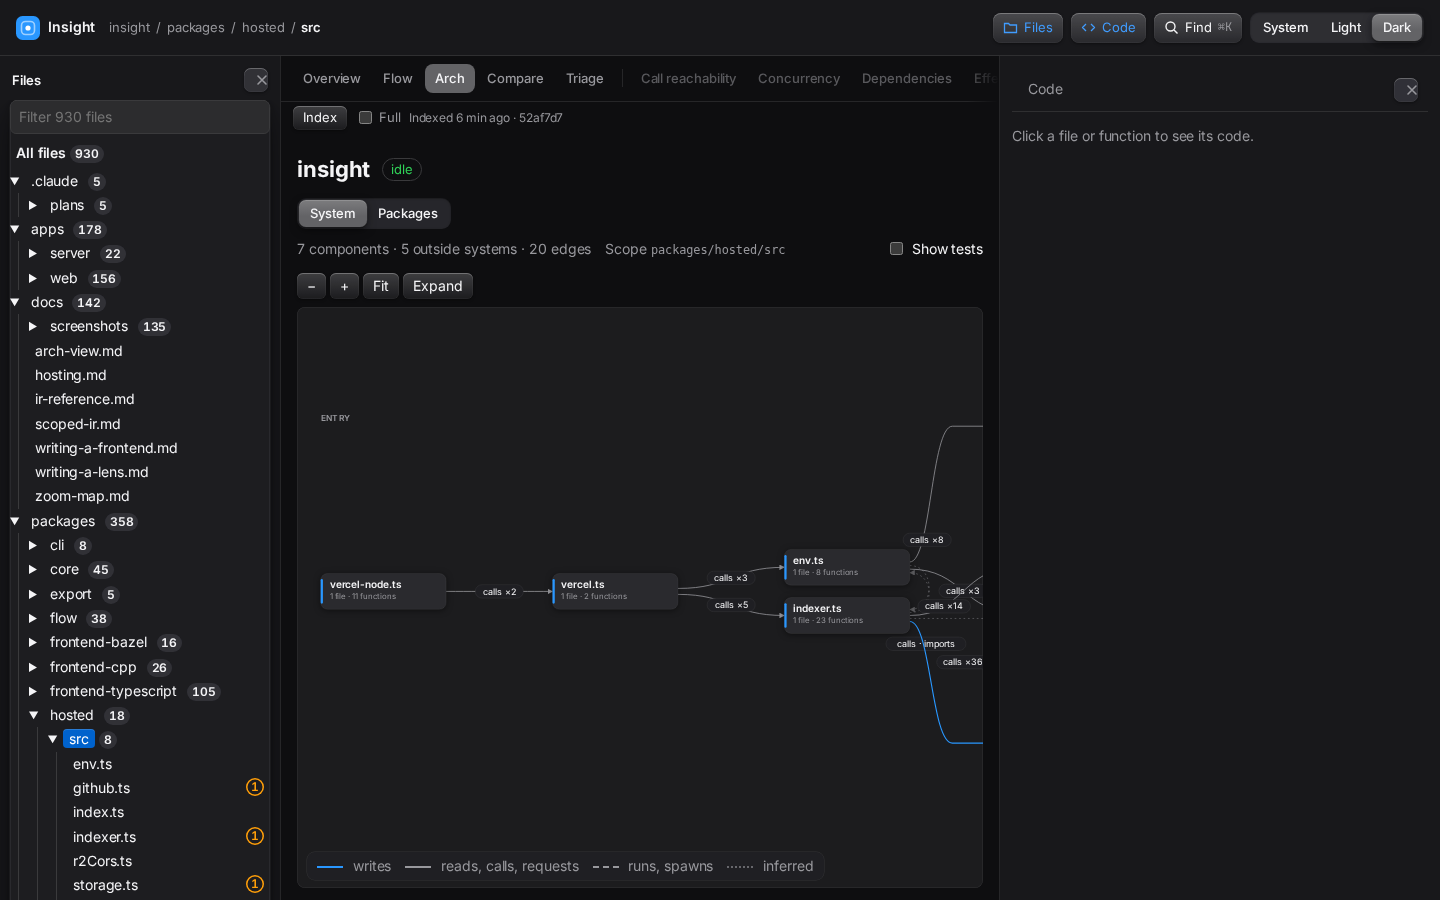
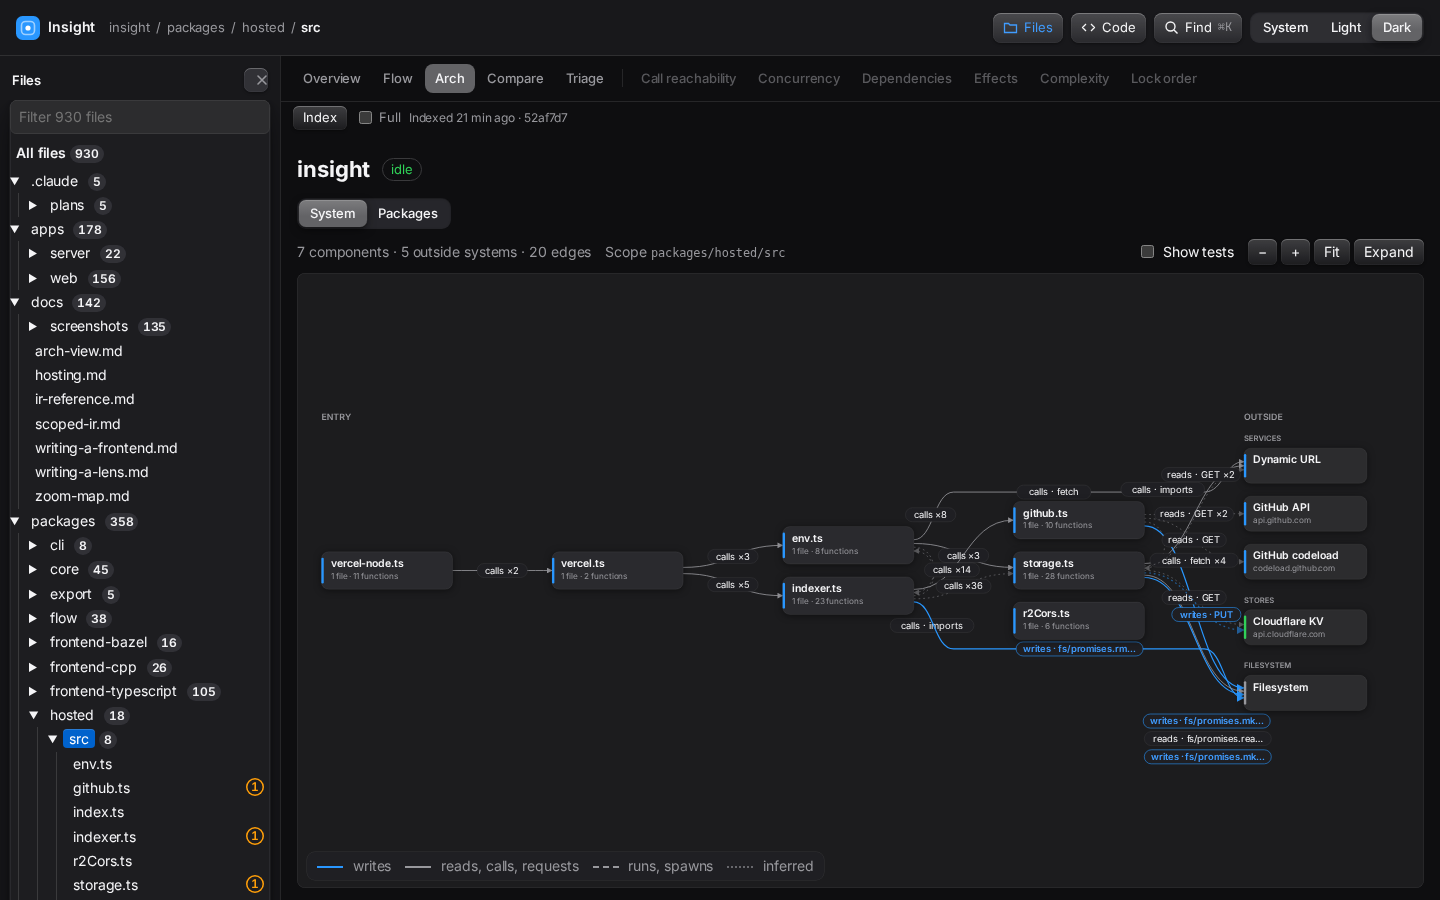
web: System view fits at normal width, lanes stay inside the layout
The right Code pane starts collapsed while System is shown and no code is open (it returns when code is opened). Lanes hug
the cards of the columns they cross, 4 px apart, and the canvas includes them. A last column of unconnected components is
folded into the previous one, columns are closer, a fade and a pan hint show when content is off-screen, pills avoid group
headers, and column headers no longer break letters apart.

Claude-Session: https://claude.ai/code/session_011RUAPMJBr2hVPtYgq4v44b

diff --git a/apps/web/src/arch/system-layout.ts b/apps/web/src/arch/system-layout.ts
@@ -7,7 +7,7 @@ import type { SystemComponent, SystemEdge, SystemExternal, SystemModel, SystemRo
 export const SYS_CARD_W = 224;
 export const SYS_EXT_W = 210;
 /** Space between two columns, where the curves run and the verb pills sit. */
-export const SYS_GAP_X = 190;
+export const SYS_GAP_X = 170;
 export const SYS_GAP_Y = 22;
 export const SYS_PAD = 28;
 export const SYS_HEADER_H = 34;
@@ -20,8 +20,8 @@ export const SYS_PILL_H = 24;
 export const SYS_MAX_CHIPS = 4;
 const PORT_INSET = 16;
 /** The first lane sits this far above (below) the cards; the next ones are a step further out. */
-const LANE_FIRST = 20;
-const LANE_STEP = 12;
+const LANE_FIRST = 16;
+const LANE_STEP = 4;
 
 export const CATEGORY_ORDER: ReadonlyArray<SystemExternal["category"]> = ["service", "store", "api", "process", "filesystem", "config", "worker"];
 export const CATEGORY_TITLES: Record<SystemExternal["category"], string> = {
@@ -173,6 +173,12 @@ export function layoutSystem(sys: SystemModel): SysLayout {
   const placed = new Set(stages.flat());
   const stray = sys.components.filter((c) => !placed.has(c.id)).map((c) => c.id);
   if (stray.length > 0) stages.push(stray);
+  // A last column of components nothing connects to is folded into the column before it, so it does not cost a column of width.
+  const linked = new Set(sys.edges.filter((e) => e.from !== e.to).flatMap((e) => [e.from, e.to]));
+  while (stages.length > 1 && (stages[stages.length - 1] as string[]).every((id) => !linked.has(id))) {
+    const last = stages.pop() as string[];
+    (stages[stages.length - 1] as string[]).push(...last);
+  }
   const stacks: Array<{ column: number; items: SysBox[]; headers: Array<{ category: SystemExternal["category"]; before: number }> }> = [];
   stages.forEach((stage, i) => {
     columns.push({ index: i, title: i === 0 ? "Entry" : "", x, w: SYS_CARD_W });
@@ -319,13 +325,26 @@ export function layoutSystem(sys: SystemModel): SysLayout {
     else geos[i] = { segs };
   });
   pending.sort((p, q) => p.span - q.span || p.i - q.i);
+  // A lane runs just above the top card (below the bottom card) of the columns it crosses, so it stays inside the layout's
+  // bounds. Parallel lanes sit LANE_STEP apart.
+  const colBoxes = new Map<number, SysBox[]>();
+  for (const bx of boxes) colBoxes.set(bx.column, [...(colBoxes.get(bx.column) ?? []), bx]);
   let nTop = 0;
   let nBot = 0;
+  let minLane = top;
+  let maxLane = bottom;
   for (const { i } of pending) {
     const { x1, y1, x2, y2 } = ends[i] as (typeof ends)[number];
+    const { a, b } = sides[i] as (typeof sides)[number];
     const dir = x2 > x1 ? 1 : -1;
-    const lane: "top" | "bottom" = (y1 + y2) / 2 < (top + bottom) / 2 ? "top" : "bottom";
-    const ly = lane === "top" ? top - LANE_FIRST - nTop++ * LANE_STEP : bottom + LANE_FIRST + nBot++ * LANE_STEP;
+    const crossed: SysBox[] = [];
+    for (let c = Math.min(a.column, b.column) + 1; c < Math.max(a.column, b.column); c++) crossed.push(...(colBoxes.get(c) ?? []));
+    const spanTop = crossed.length > 0 ? Math.min(...crossed.map((q) => q.y)) : top;
+    const spanBottom = crossed.length > 0 ? Math.max(...crossed.map((q) => q.y + q.h)) : bottom;
+    const lane: "top" | "bottom" = (y1 + y2) / 2 < (spanTop + spanBottom) / 2 ? "top" : "bottom";
+    const ly = lane === "top" ? spanTop - LANE_FIRST - nTop++ * LANE_STEP : spanBottom + LANE_FIRST + nBot++ * LANE_STEP;
+    minLane = Math.min(minLane, ly);
+    maxLane = Math.max(maxLane, ly);
     const xa = x1 + dir * SYS_GAP_X * 0.4;
     const xb = x2 - dir * SYS_GAP_X * 0.4;
     const k = SYS_GAP_X * 0.2;
@@ -339,8 +358,8 @@ export function layoutSystem(sys: SystemModel): SysLayout {
     };
   }
   // Room for the lanes: everything moves down by what the top lanes need, and the canvas grows for the bottom ones.
-  const dy = nTop > 0 ? Math.max(0, 54 - (top - LANE_FIRST - (nTop - 1) * LANE_STEP)) : 0;
-  const height = dy + bottom + (nBot > 0 ? LANE_FIRST + (nBot - 1) * LANE_STEP : 0) + SYS_PAD;
+  const dy = minLane < top ? Math.max(0, 54 - minLane) : 0;
+  const height = dy + maxLane + SYS_PAD;
   if (dy > 0) {
     for (const bx of boxes) bx.y += dy;
     for (const g of groups) g.y += dy;
@@ -350,10 +369,11 @@ export function layoutSystem(sys: SystemModel): SysLayout {
 
   // Pills sit on their curve, slid along it (t 0.3 to 0.7) and then offset off it until they touch no card and no other pill.
   const taken: Array<{ x: number; y: number; w: number; h: number }> = boxes.map((b) => ({ x: b.x - 4, y: b.y - 4, w: b.w + 8, h: b.h + 8 }));
+  for (const g of groups) taken.push({ x: g.x - 2, y: g.y - 16, w: 150, h: 22 });
   const arrows: SysArrow[] = [];
-  const NUDGES = [0, 26, -26, 52, -52, 78, -78, 104, -104, 130, -130, 156, -156, 182, -182, 208, -208];
+  const NUDGES = [0, 26, -26, 52, -52, 78, -78, 104, -104, 130, -130, 156, -156, 182, -182, 208, -208, 234, -234, 260, -260, 312, -312, 364, -364, 416, -416];
   const TS = [0.5, 0.45, 0.55, 0.4, 0.6, 0.35, 0.65, 0.3, 0.7];
-  const WIDE_TS = [0.5, 0.4, 0.6, 0.3, 0.7, 0.2, 0.8, 0.12, 0.88];
+  const WIDE_TS = [0.5, 0.4, 0.6, 0.3, 0.7, 0.2, 0.8, 0.12, 0.88, 0.06, 0.94];
   live.forEach((e, i) => {
     const geo = geos[i] as Geo;
     const samples = polyline(geo.segs);

diff --git a/apps/web/src/components/Workspace.tsx b/apps/web/src/components/Workspace.tsx
@@ -93,6 +93,25 @@ export function Workspace({ id, tab, scope, line, fn, roots = true, base, head, 
       setCodeDrawer(true);
       setFilesOpen(false);
     } else {
+      autoCodeCollapse.current = false;
+      setCodeCollapsed(false);
+    }
+  }, []);
+  // The System view wants the width: while it is shown and no code is open, the code pane starts collapsed. Opening code (a
+  // file:line link) or the Code button brings it back, and leaving System restores it.
+  const autoCodeCollapse = useRef(false);
+  const codeCollapsedNow = useRef(codeCollapsed);
+  codeCollapsedNow.current = codeCollapsed;
+  const targetNow = useRef(target);
+  targetNow.current = target;
+  const onSystemActive = useCallback((on: boolean) => {
+    if (on) {
+      if (!isNarrow() && !codeCollapsedNow.current && targetNow.current === undefined) {
+        autoCodeCollapse.current = true;
+        setCodeCollapsed(true);
+      }
+    } else if (autoCodeCollapse.current) {
+      autoCodeCollapse.current = false;
       setCodeCollapsed(false);
     }
   }, []);
@@ -263,6 +282,7 @@ export function Workspace({ id, tab, scope, line, fn, roots = true, base, head, 
       setCodeDrawer(!codeDrawer);
       setFilesOpen(false);
     } else {
+      autoCodeCollapse.current = false;
       setCodeCollapsed(!codeCollapsed);
     }
   };
@@ -272,7 +292,7 @@ export function Workspace({ id, tab, scope, line, fn, roots = true, base, head, 
       case "overview":
         return <ProjectOverview id={id} />;
       case "arch":
-        return <ArchTab id={id} scope={scope} />;
+        return <ArchTab id={id} scope={scope} onSystemActive={onSystemActive} />;
       case "compare":
         return <ComparePage id={id} base={base} head={head} />;
       case "triage":

diff --git a/apps/web/src/styles.css b/apps/web/src/styles.css
@@ -1049,9 +1049,11 @@ button.add-submit:disabled { background: var(--faint); color: var(--graphite); b
 .sysv-stage:active { cursor: grabbing; }
 .sysv-stage.stale { opacity: 0.6; }
 .sysv-svg { display: block; }
+.sysv-fade { position: absolute; top: 0; right: 0; bottom: 0; width: 56px; pointer-events: none; background: linear-gradient(to right, transparent, var(--sheet)); }
+.sysv-hint { position: absolute; right: 12px; bottom: 8px; padding: 3px 10px; border-radius: 8px; background: var(--chip-solid); box-shadow: 0 0 0 0.5px var(--hair); pointer-events: none; }
 .sysv-empty { position: absolute; inset: 0; display: grid; place-content: center; text-align: center; padding: 24px; gap: 4px; max-width: 460px; margin: 0 auto; }
 .sysv-empty p { margin: 0; }
-.sysv-col, .sysv-group { fill: var(--muted); font: 600 13px var(--font-ui); letter-spacing: 0.04em; text-transform: uppercase; }
+.sysv-col, .sysv-group { fill: var(--muted); font: 600 13px var(--font-ui); letter-spacing: 0; font-kerning: none; text-rendering: geometricPrecision; text-transform: uppercase; }
 .sysv-col { font-size: 15px; }
 .sysv-node { cursor: pointer; outline: none; }
 .sysv-card { fill: var(--card-top); stroke: var(--hair); stroke-width: 1; filter: drop-shadow(0 2px 6px var(--shadow)); }

diff --git a/apps/web/src/components/views/ArchTab.tsx b/apps/web/src/components/views/ArchTab.tsx
@@ -1,4 +1,4 @@
-import { useState } from "react";
+import { useEffect, useState } from "react";
 import { ARCH_MODES, ARCH_MODE_LABELS, readArchMode, writeArchMode, type ArchMode } from "../../arch/mode";
 import { ArchView } from "./ArchView";
 import { SystemView } from "./SystemView";
@@ -20,8 +20,13 @@ export function ArchModeToggle({ mode, onChange }: { mode: ArchMode; onChange: (
  * The Arch tab: System (the explorer scope's components, routes and outside systems) or Packages (the whole project's
  * package graph, unchanged). System is the default, and the reader's choice is kept in localStorage.
  */
-export function ArchTab({ id, scope, initial }: { id: string; scope: string; initial?: ArchMode }) {
+export function ArchTab({ id, scope, initial, onSystemActive }: { id: string; scope: string; initial?: ArchMode; onSystemActive?: (on: boolean) => void }) {
   const [mode, setMode] = useState<ArchMode>(() => initial ?? readArchMode());
+  // The workspace collapses its code pane while System is shown and no code is open.
+  useEffect(() => {
+    onSystemActive?.(mode === "system");
+    return () => onSystemActive?.(false);
+  }, [mode, onSystemActive]);
   const pick = (m: ArchMode) => {
     setMode(m);
     writeArchMode(m);

diff --git a/apps/web/src/components/views/SystemView.tsx b/apps/web/src/components/views/SystemView.tsx
@@ -214,6 +214,11 @@ export function SystemDiagram({ id, sys, tests, onTests, stale = false }: System
   const arrows = layout.arrows;
 
   const empty = layout.boxes.length === 0;
+  // Content past the stage's edge: a fade along the right edge and a hint to pan.
+  const stageW = stage.current?.clientWidth ?? 0;
+  const stageHt = stage.current?.clientHeight ?? 0;
+  const cut = !empty && stageW > 0 && (cam.x + layout.width * cam.k > stageW + 4 || cam.x < -4 || cam.y < -4 || cam.y + layout.height * cam.k > stageHt + 4);
+  const cutRight = cut && cam.x + layout.width * cam.k > stageW + 4;
   return (
     <div className={`sysv${expanded ? " expanded" : ""}`}>
       <div className="sysv-bar">
@@ -367,6 +372,8 @@ export function SystemDiagram({ id, sys, tests, onTests, stale = false }: System
               </g>
             </svg>
           )}
+          {cutRight && <div className="sysv-fade" aria-hidden="true" />}
+          {cut && sel === null && <span className="sysv-hint small muted">drag to pan · Fit</span>}
           {!empty && sel === null && <Legend />}
           {sel !== null && <Panel id={id} sys={sys} layout={layout} sel={sel} onSelect={setSel} onOpen={openScope} onClose={() => setSel(null)} />}
         </div>

diff --git a/apps/web/test/systemLayout.test.tsx b/apps/web/test/systemLayout.test.tsx
@@ -217,6 +217,20 @@ describe.each([
     }
   });
 
+  it("keeps every lane just outside the cards, inside the layout bounds", () => {
+    const cardTop = Math.min(...layout.boxes.map((b) => b.y));
+    const cardBottom = Math.max(...layout.boxes.map((b) => b.y + b.h));
+    const lanes = layout.arrows.filter((a) => a.lane !== undefined);
+    // The first lane is 16 px off the cards and each further one 4 px: no lane strays further than that from the cards.
+    const reach = 16 + 4 * lanes.length + 1;
+    for (const a of lanes) {
+      const ys = a.samples.map((q) => q.y);
+      expect(Math.min(...ys)).toBeGreaterThanOrEqual(Math.max(0, cardTop - reach));
+      expect(Math.max(...ys)).toBeLessThanOrEqual(Math.min(layout.height, cardBottom + reach));
+    }
+    expect(layout.height).toBeLessThanOrEqual(cardBottom + reach + 28 + 54);
+  });
+
   if (name === "dense") {
     it("sends the edges that would cross a card along a lane", () => {
       expect(layout.arrows.some((a) => a.lane !== undefined)).toBe(true);

diff --git a/docs/system-view.md b/docs/system-view.md
@@ -69,6 +69,9 @@ The geometry is `layoutSystem` in `apps/web/src/arch/system-layout.ts`, pure and
   the cards and enters the gap before its target, so no edge goes through a card that is not one of its ends.
 - Verb pills sit on their curve, slid along it (0.3 to 0.7 of its length) and then offset until they touch no card and no
   other pill. Above 30 edges the pills are shown only for the hovered or selected node's edges (the others are lines).
+- While System is shown and no code is open, the workspace starts with the right Code pane collapsed, to give the diagram width. Opening code (a `file:line` link) or the Code button brings it back, and leaving System restores it. A last column of components that nothing connects to is folded into the column before it.
+- Lanes run just above the top card (below the bottom card) of the columns they cross, 4 px apart, inside the layout's bounds.
+- When part of the graph is off-screen, a fade on the right edge and a "drag to pan · Fit" hint say so.
 - The first view is fitted to the stage but never smaller than 0.56, so a card title (18 px) renders at 10 px or more. A
   wider graph is panned (drag, wheel zoom, `-`/`+`, Fit). Expand fills the window (Esc leaves). The stage is as tall as the
   window leaves room for, at least 60vh.
